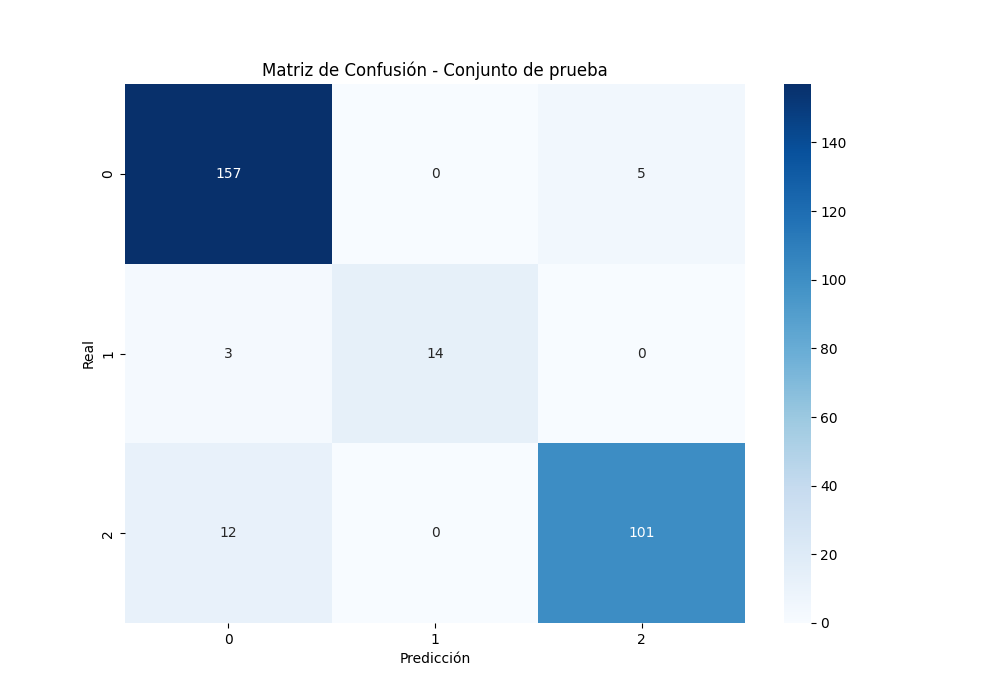
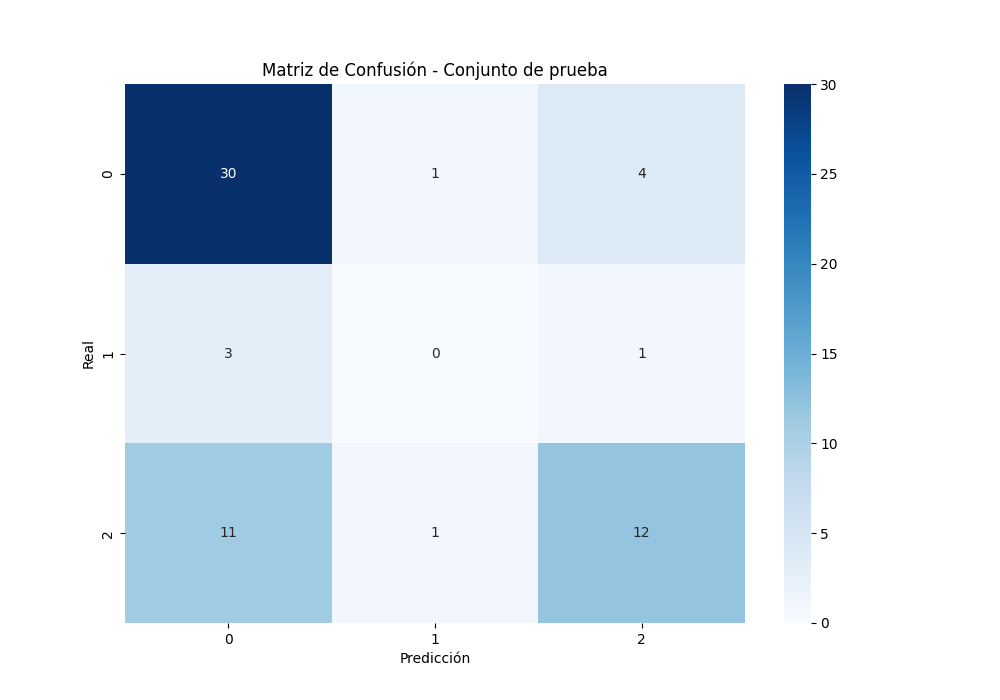
corrida 1

diff --git a/refactoring/preprocess.py b/refactoring/preprocess.py
@@ -58,8 +58,8 @@ if __name__ == '__main__':
     y_preprocess_pipeline = crearPipelinePreprocesamientoy()
     y_preprocess_pipeline.fit(y_train)
 
-    X_test = x_preprocess_pipeline.transform(X_train)
-    y_test = y_preprocess_pipeline.transform(y_train)
+    X_test = x_preprocess_pipeline.transform(X_test)
+    y_test = y_preprocess_pipeline.transform(y_test)
     X_val = x_preprocess_pipeline.transform(X_val)
     y_val = y_preprocess_pipeline.transform(y_val)
     X_train = x_preprocess_pipeline.transform(X_train)

diff --git a/refactoring/entrenarModelos.py b/refactoring/entrenarModelos.py
@@ -22,7 +22,7 @@ def modeloRlog(X_train,y_train):
                 },
                 {
                        'penalty': ['elasticnet'],
-                        'C': [0.01, 0.06,0.07,0.08,0.04],
+                        'C': [0.01, 0.06,0.07,0.08,0.05],
                         'solver': ['saga'],
                         'l1_ratio': [0, 0.5, 1]  # Sólo para elasticnet 
                 }

diff --git a/refactoring/evaluarModelos.py b/refactoring/evaluarModelos.py
@@ -44,6 +44,7 @@ class evaluarModelo():
         plt.xlabel("Predicción")
         plt.ylabel("Real")
         figure.savefig(f"./docs/confusion_matrixes/{tipoModelo}_{tipoDeSetDeDatos}.png")
+        mlflow.log_figure(figure,f"{tipoModelo}_{tipoDeSetDeDatos}.png")
 
     @staticmethod
     def metricasDeRendimiento(y,ypred,tipoDeSetDeDatos):
